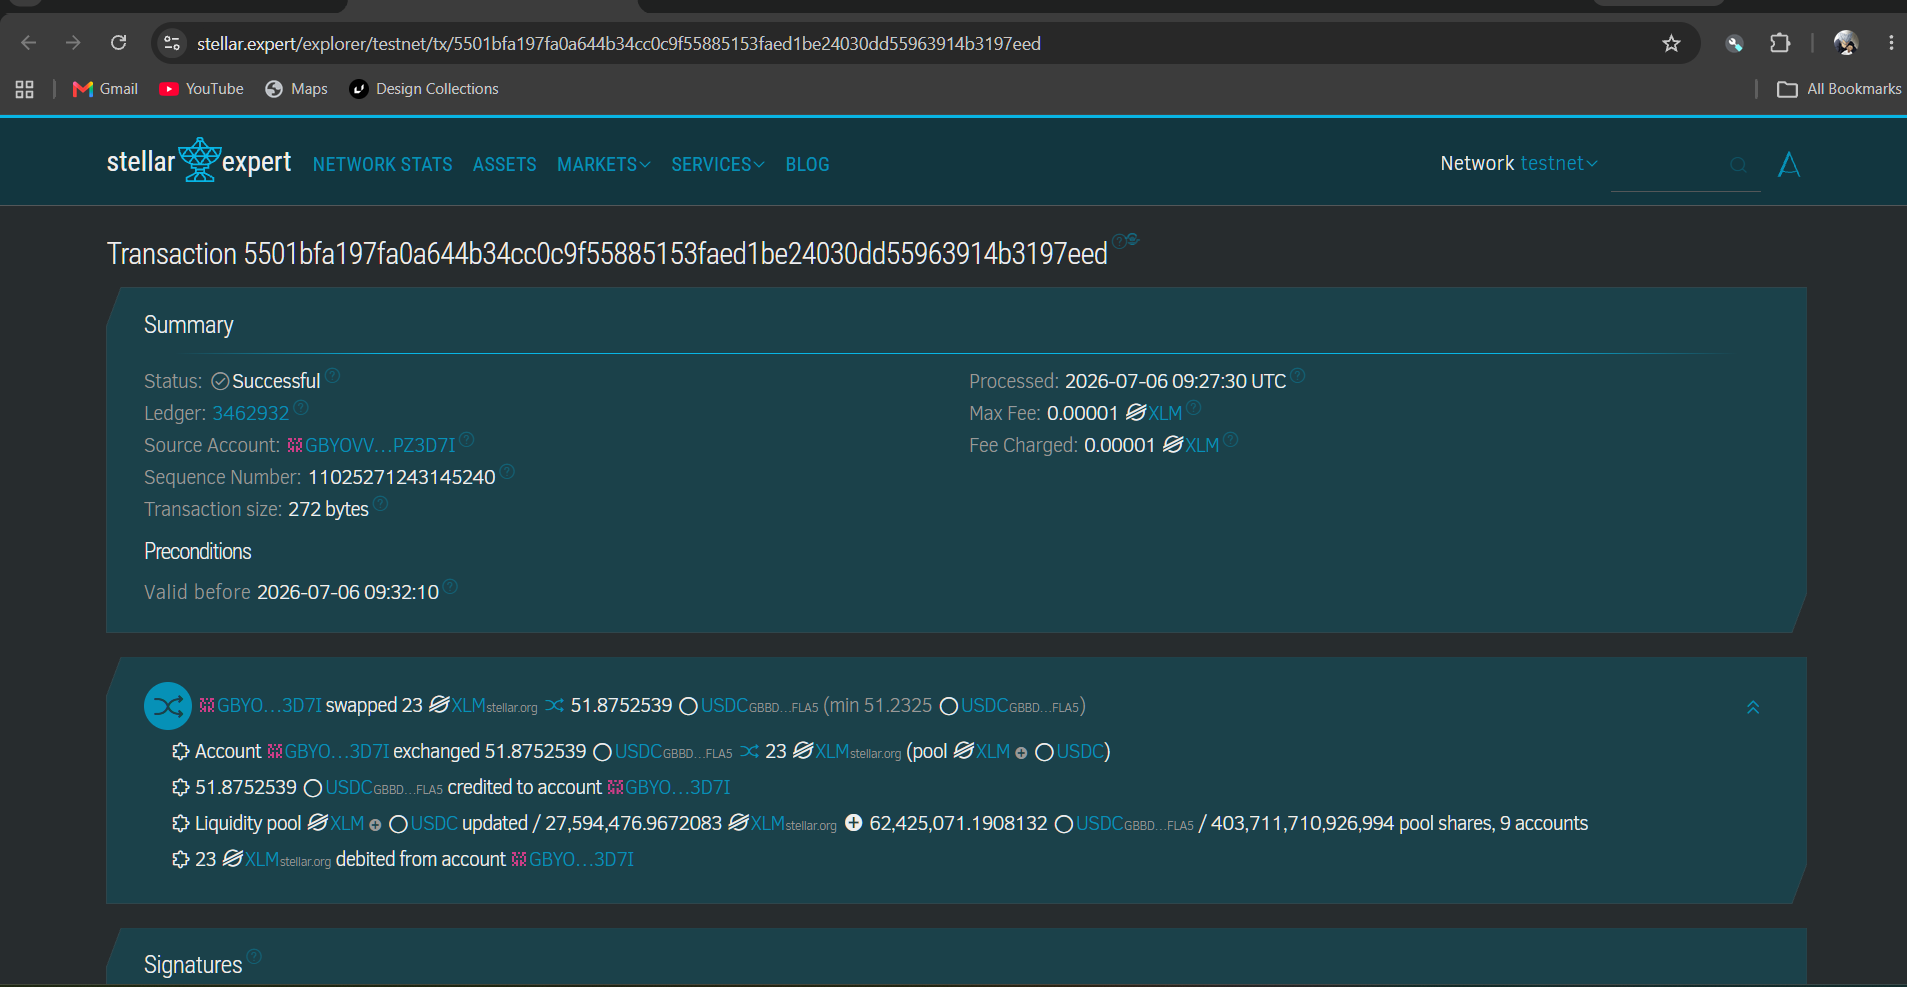
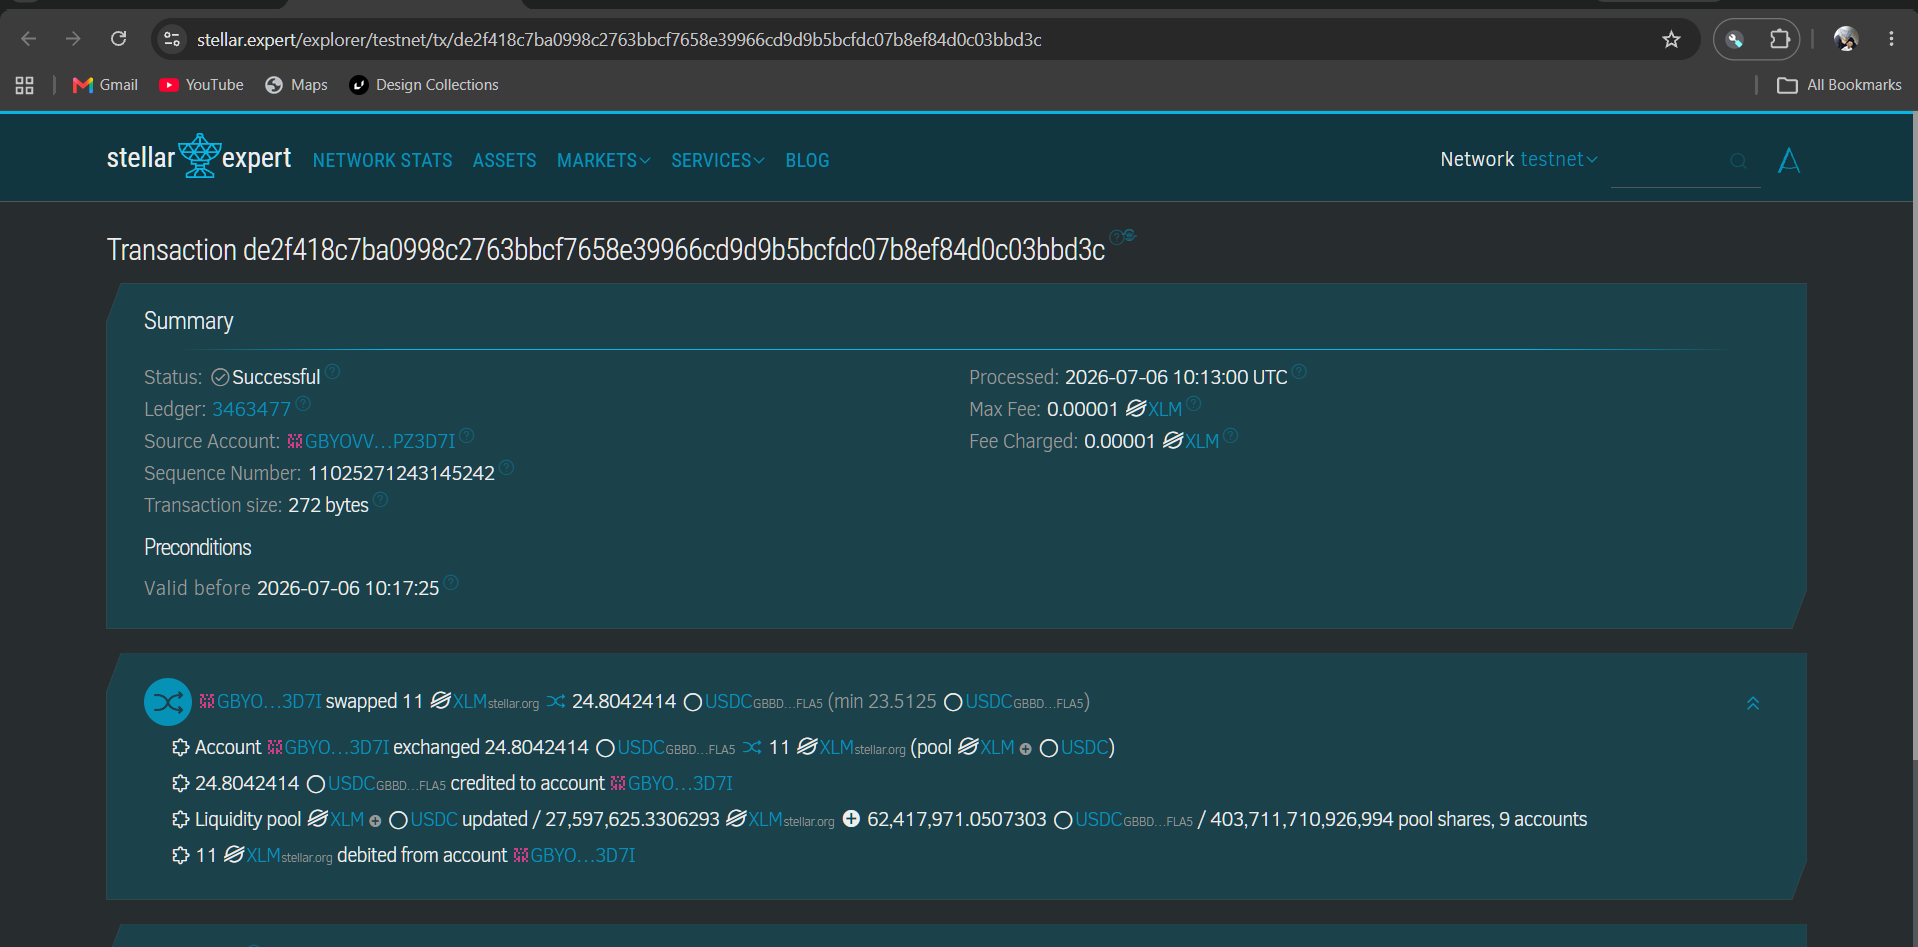
feat: update screenshots, add freighter transaction details, update tx hash

diff --git a/apps/level-2/README.md b/apps/level-2/README.md
@@ -26,20 +26,23 @@ Built with **Next.js 16**, **TypeScript strict**, **Tailwind CSS v4**, **@stella
 ### 3. Freighter Transaction Approval
 ![Freighter Transaction](screenshots/freighterTransaction.png)
 
-### 4. Successful Transaction
+### 4. Freighter Transaction Details
+![Freighter Transaction Details](screenshots/freighterTransactionDetails.png)
+
+### 5. Successful Transaction
 ![Transaction Successful](screenshots/transactionSuccesfull.png)
 
-### 5. Transaction on StellarExpert
+### 6. Transaction on StellarExpert
 ![StellarExpert Transaction](screenshots/stellarExpertTrasactionInformation.png)
 
-### 6. USDC Balance After Conversion
+### 7. USDC Balance After Conversion
 ![USDC After Conversion](screenshots/usdcAfterConversion.png)
 
-### 7. Cancelled Transaction (User Rejected)
+### 8. Cancelled Transaction (User Rejected)
 ![Cancelled Transaction](screenshots/cancelledTransaction.png)
 
 Example transaction:
-[https://stellar.expert/explorer/testnet/tx/5501bfa197fa0a644b34cc0c9f55885153faed1be24030dd55963914b3197eed](https://stellar.expert/explorer/testnet/tx/5501bfa197fa0a644b34cc0c9f55885153faed1be24030dd55963914b3197eed)
+[https://stellar.expert/explorer/testnet/tx/de2f418c7ba0998c2763bbcf7658e39966cd9d9b5bcfdc07b8ef84d0c03bbd3c](https://stellar.expert/explorer/testnet/tx/de2f418c7ba0998c2763bbcf7658e39966cd9d9b5bcfdc07b8ef84d0c03bbd3c)
 
 ## Getting Started
 

diff --git a/README.md b/README.md
@@ -79,10 +79,11 @@ Built with **Next.js 16**, **TypeScript**, **Tailwind CSS v4**, **@stellar/stell
 | 1. Home page (wallet connected) | ![Home](apps/level-2/screenshots/home.png) |
 | 2. Multi-wallet selection modal | ![Wallets](apps/level-2/screenshots/multipleWallets.png) |
 | 3. Freighter transaction approval | ![Freighter Tx](apps/level-2/screenshots/freighterTransaction.png) |
-| 4. Successful transaction | ![Tx Success](apps/level-2/screenshots/transactionSuccesfull.png) |
-| 5. Transaction on StellarExpert | ![StellarExpert](apps/level-2/screenshots/stellarExpertTrasactionInformation.png) |
-| 6. USDC balance after conversion | ![USDC After](apps/level-2/screenshots/usdcAfterConversion.png) |
-| 7. Cancelled transaction (user rejected) | ![Cancelled](apps/level-2/screenshots/cancelledTransaction.png) |
+| 4. Freighter transaction details | ![Freighter Details](apps/level-2/screenshots/freighterTransactionDetails.png) |
+| 5. Successful transaction | ![Tx Success](apps/level-2/screenshots/transactionSuccesfull.png) |
+| 6. Transaction on StellarExpert | ![StellarExpert](apps/level-2/screenshots/stellarExpertTrasactionInformation.png) |
+| 7. USDC balance after conversion | ![USDC After](apps/level-2/screenshots/usdcAfterConversion.png) |
+| 8. Cancelled transaction (user rejected) | ![Cancelled](apps/level-2/screenshots/cancelledTransaction.png) |
 
 ### Setup
 